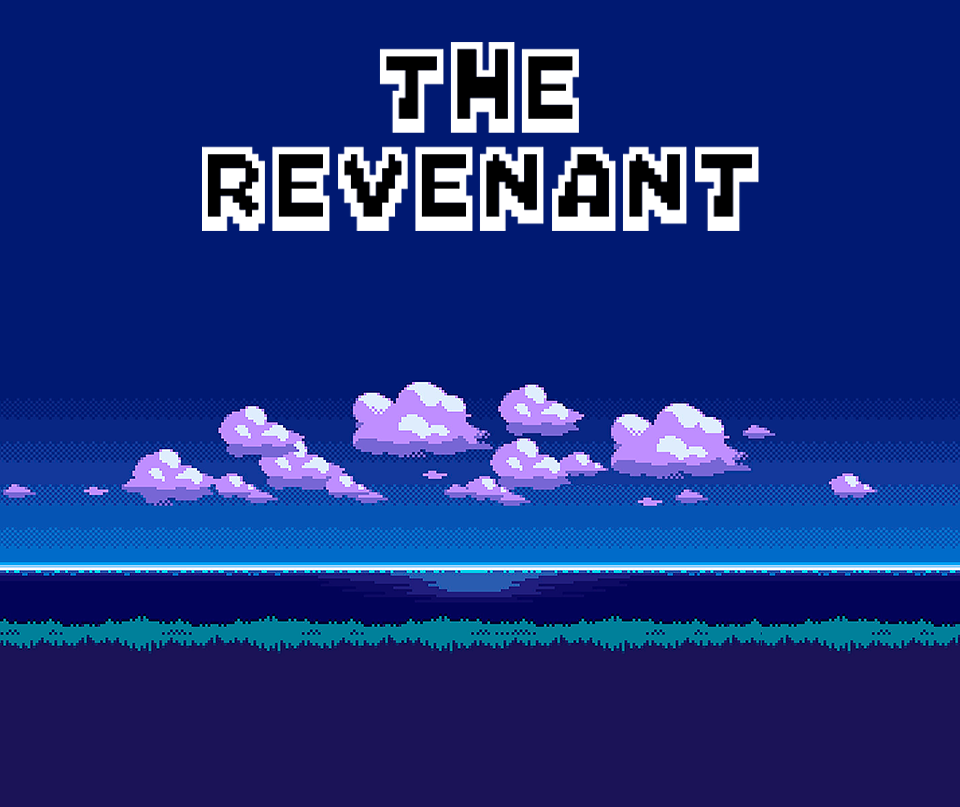
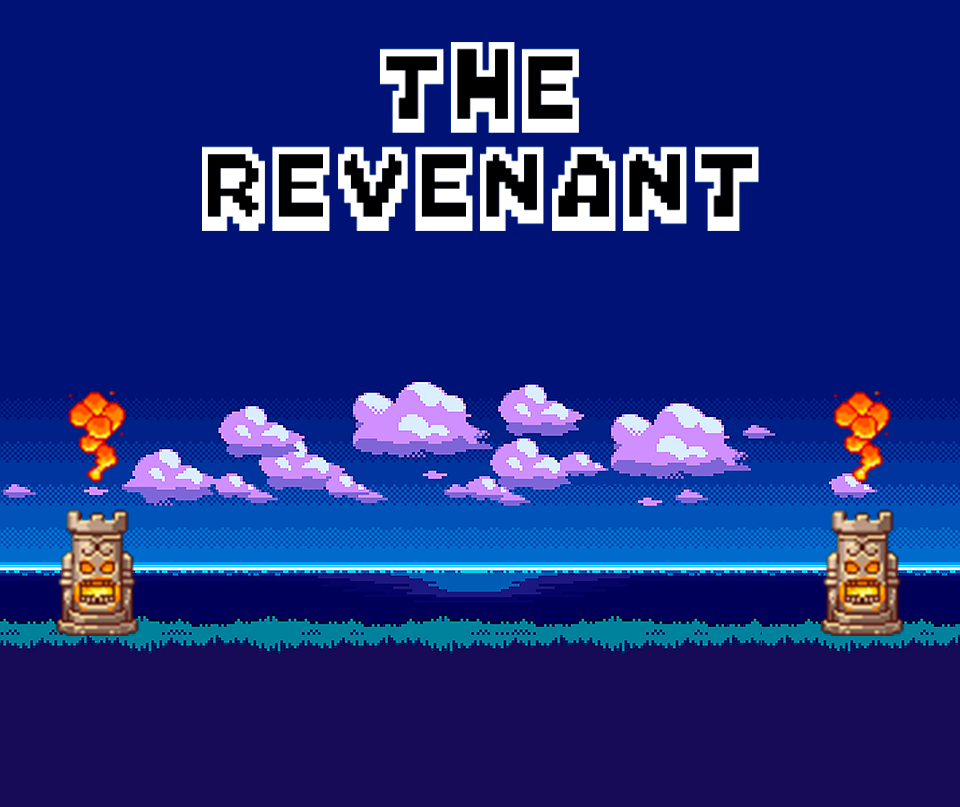
formata identação do codigo, e altera img background menu
E tambem remove funções sem uso no assetsManager

diff --git a/js/AssetsManager.js b/js/AssetsManager.js
@@ -6,7 +6,7 @@ function AssetsManager() {
     this.channels = [];
     this.MAX_CHANNELS = 20;
 
-    for(var i = 0; i< this.MAX_CHANNELS; i++){
+    for (var i = 0; i < this.MAX_CHANNELS; i++) {
         this.channels[i] = {
             audio: new Audio(),
             fim: -1
@@ -43,33 +43,23 @@ AssetsManager.prototype.loadAudio = function (key, url) {
     this.audios[key] = audio;
 }
 
-AssetsManager.prototype.startSound = function (key, volume, loop_cond) {
-    if(!this.audios[key]){
+AssetsManager.prototype.playSoundEffect = function (key, volume, loop_cond) {
+    if (!this.audios[key]) {
         throw new Error(`Chave de audio inválida: ${key}!`);
     }
-    else{
-        for(var i =0; i< this.MAX_CHANNELS; i++){
+    else {
+        for (var i = 0; i < this.MAX_CHANNELS; i++) {
             var agora = new Date();
-            if(this.channels[i].fim < agora.getTime()){
+            if (this.channels[i].fim < agora.getTime()) {
                 this.channels[i].audio.src = this.audios[key].src;
-                this.channels[i].fim = agora.getTime()+this.audios[key].duration*1000;
+                this.channels[i].fim = agora.getTime() + this.audios[key].duration * 1000;
 
-                this.channels[i].audio.volume=volume;
+                this.channels[i].audio.volume = volume;
                 this.channels[i].audio.play();
-                this.channels[i].audio.loop=loop_cond;
-                
+                this.channels[i].audio.loop = loop_cond;
+
                 break;
             }
         }
     }
-}
-
-AssetsManager.prototype.para=function(key){
-    this.audios[key].pause();
-    this.audios[key].load();
-}
-AssetsManager.prototype.inicia=function(key){
-    this.audios[key].play();
-    this.audios[key].loop=true;
-    this.audios[key].volume=0.5;
 }

diff --git a/js/NPC_estatico.js b/js/NPC_estatico.js
@@ -19,33 +19,33 @@ NPC_estatico.prototype.renderCheck = function (dt) {
     this.mc = Math.floor((this.x + (this.w / 2)) / this.mapa.SIZE);
     this.ml = Math.floor((this.y + (this.h / 2)) / this.mapa.SIZE);
     this.frame += 12 * dt;
-    
-    if(this.ativo){
+
+    if (this.ativo) {
         this.ctx.drawImage(
             this.assets.img("pack"),
             0,
             0,
             55,
             51,
-            this.x-9,//para centralizar
+            this.x - 9,//para centralizar
             this.y,
-            this.w+20,
+            this.w + 20,
             this.h,
         );
     }
-    else{
+    else {
         this.ctx.drawImage(
             this.assets.img("pack"),
             55,
             0,
             55,
             51,
-            this.x-9,//para centralizar
+            this.x - 9,//para centralizar
             this.y,
-            this.w+20,
+            this.w + 20,
             this.h,
         );
-        
+
     }
 }
 
@@ -55,7 +55,7 @@ NPC_estatico.prototype.renderDeath = function (dt) {
     var F = Math.floor(this.frame);
     this.ctx.drawImage(
         this.assets.img("pack"),
-        110+(F%5)*20,
+        110 + (F % 5) * 20,
         118,
         20,
         23,

diff --git a/js/Sprite.js b/js/Sprite.js
@@ -1,13 +1,13 @@
 function Sprite(params = {}) {
     var exemplo = {
-        x: 64,      y: 64,
-        h: 25,      w: 20,
-        vx: 2.3,    vy: 2.3,
-        mc: 0,      my: 0,
-        caminhos:[],
+        x: 64, y: 64,
+        h: 25, w: 20,
+        vx: 2.3, vy: 2.3,
+        mc: 0, my: 0,
+        caminhos: [],
         assets: undefined,
         mapa: undefined,
-        cellsSize:32,
+        cellsSize: 32,
         ctx: null,
         frame: 0,
         direcao: '',
@@ -21,14 +21,15 @@ Sprite.prototype.render = function (dt) {
     //Desenhando no chão
     if (this.mapa.cells[this.mc][this.ml].tipo == 0) {
         this.mapa.cells[this.mc][this.ml].tipo = 2;
-        var x={c:this.mc, l:this.ml};
+        var x = { c: this.mc, l: this.ml };
         this.caminhos.push(x);
-        x=null;
+        x = null;
     }
-    
+
     this.frame += 10 * dt;
     var F = Math.floor(this.frame);
-    var imgX = (F % 7) * 20; var imgY;
+    var imgX = (F % 7) * 20;
+    var imgY;
 
     switch (this.direcao) {
         case 'direita':

diff --git a/index.html b/index.html
@@ -13,10 +13,12 @@
     <link rel="shortcut icon" href="assets/imgs/icon.png" />
     <title>The Revenant</title>
 </head>
+
 <body>
     <div class="container">
         <canvas class="cv"></canvas>
     </div>
     <script src="main.js"></script>
 </body>
+
 </html>
